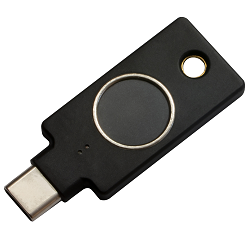
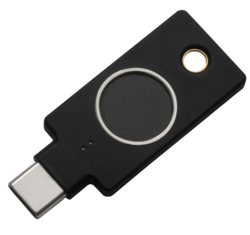
Update NEWS, version and add new images

diff --git a/ykman-gui/qml/images.js b/ykman-gui/qml/images.js
@@ -7,6 +7,7 @@ var _images_for_name = {
     'FIDO U2F Security Key': 'sky1',
     'Security Key by Yubico': 'sky2',
     'Security Key NFC': 'sky3',
+    'Security Key C NFC': 'skycnfc',
     'YubiKey NEO': 'neo',
     'YubiKey Standard': 'standard',
 };
